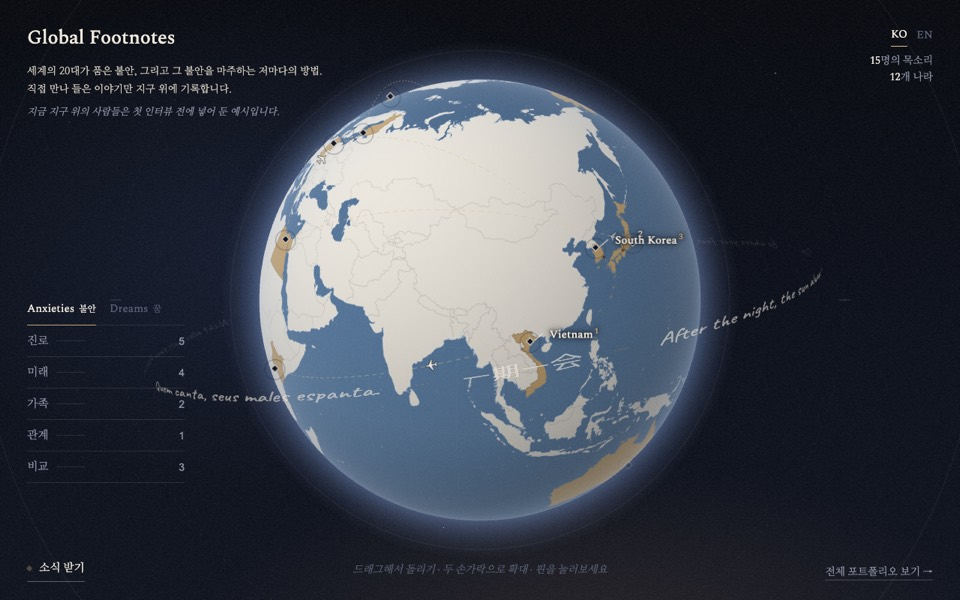
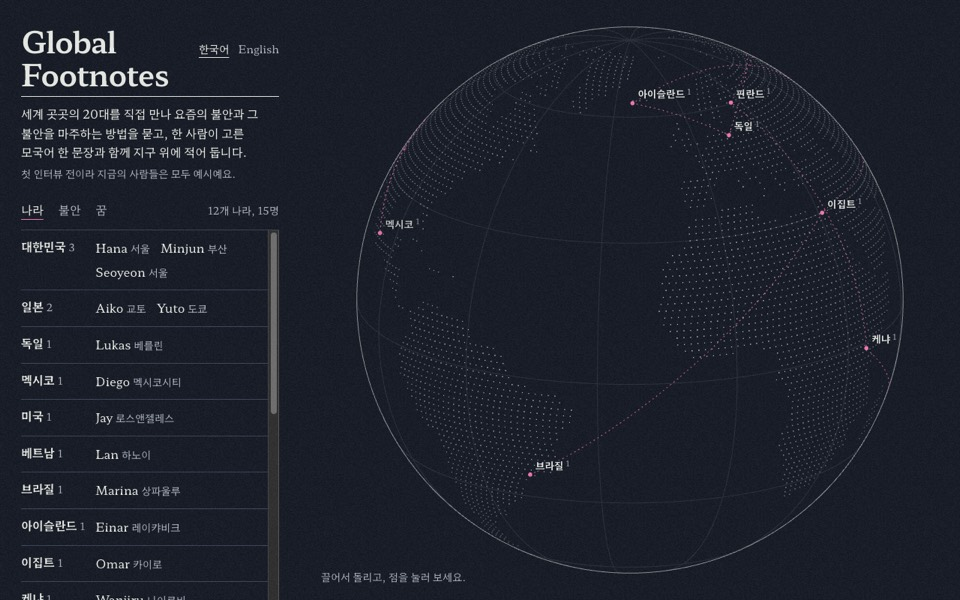
workshop: link the deployed Global Footnotes (example data noted)
Claude-Session: https://claude.ai/code/session_012LjC5GDyrhzNm9gcmwJn63

diff --git a/workshop/index.html b/workshop/index.html
@@ -167,8 +167,8 @@ var APPS=[
   d:["Narrows 434 Korean emotion words in three steps until you can name what you feel.","한국어 감정 단어 434개를 세 단계로 좁혀, 지금 느끼는 감정에 이름을 붙입니다."]},
  {g:0,url:"../living-paper/",img:"living_paper",name:["Living Paper","Living Paper"],kind:["Prototype","시제품"],
   d:["The TeX-Corps team's prototype: a meeting assistant whose relay server only ever sees ciphertext.","TeX-Corps 팀 시제품입니다. 중계 서버가 암호문만 보는 회의 보조 도구입니다."]},
- {g:0,url:"",img:"global_footnotes",name:["Global Footnotes","Global Footnotes"],kind:["In progress","준비 중"],
-  d:["Interviews with people in their twenties around the world, pinned on a globe: what worries them and how they deal with it. Not public until the first real interview is in; the people on it now are placeholders.","세계 20대의 불안과 그걸 마주하는 방법을 인터뷰해 지구본 위에 기록합니다. 첫 실제 인터뷰가 들어오면 공개하며, 지금 화면의 인물은 예시입니다."]},
+ {g:0,url:"../global-footnotes/",img:"global_footnotes",name:["Global Footnotes","Global Footnotes"],kind:["Example data","예시 데이터"],
+  d:["Interviews with people in their twenties around the world, pinned on a globe: what worries them and how they deal with it. Interviews have not started, so everyone on it now is a placeholder.","세계 20대의 불안과 그걸 마주하는 방법을 인터뷰해 지구본 위에 기록합니다. 인터뷰 전이라 지금 지구본 위의 사람은 모두 예시입니다."]},
  {g:0,url:"../stick-breaker-game/",img:"stick_breaker_game",name:["357 Stick Breaker","357 막대기 게임"],kind:["Game","게임"],
   d:["A Nim-style game with rows of 3, 5 and 7 sticks, against the computer or a friend.","3·5·7개 막대 줄로 하는 님(Nim) 계열 게임입니다. 컴퓨터나 친구와 둘 수 있습니다."]},
  {g:1,url:"../acoustic-harvester/",img:"acoustic_web",name:["Tune a noise harvester","소음 하베스터 튜닝"],kind:["Project","프로젝트"],
